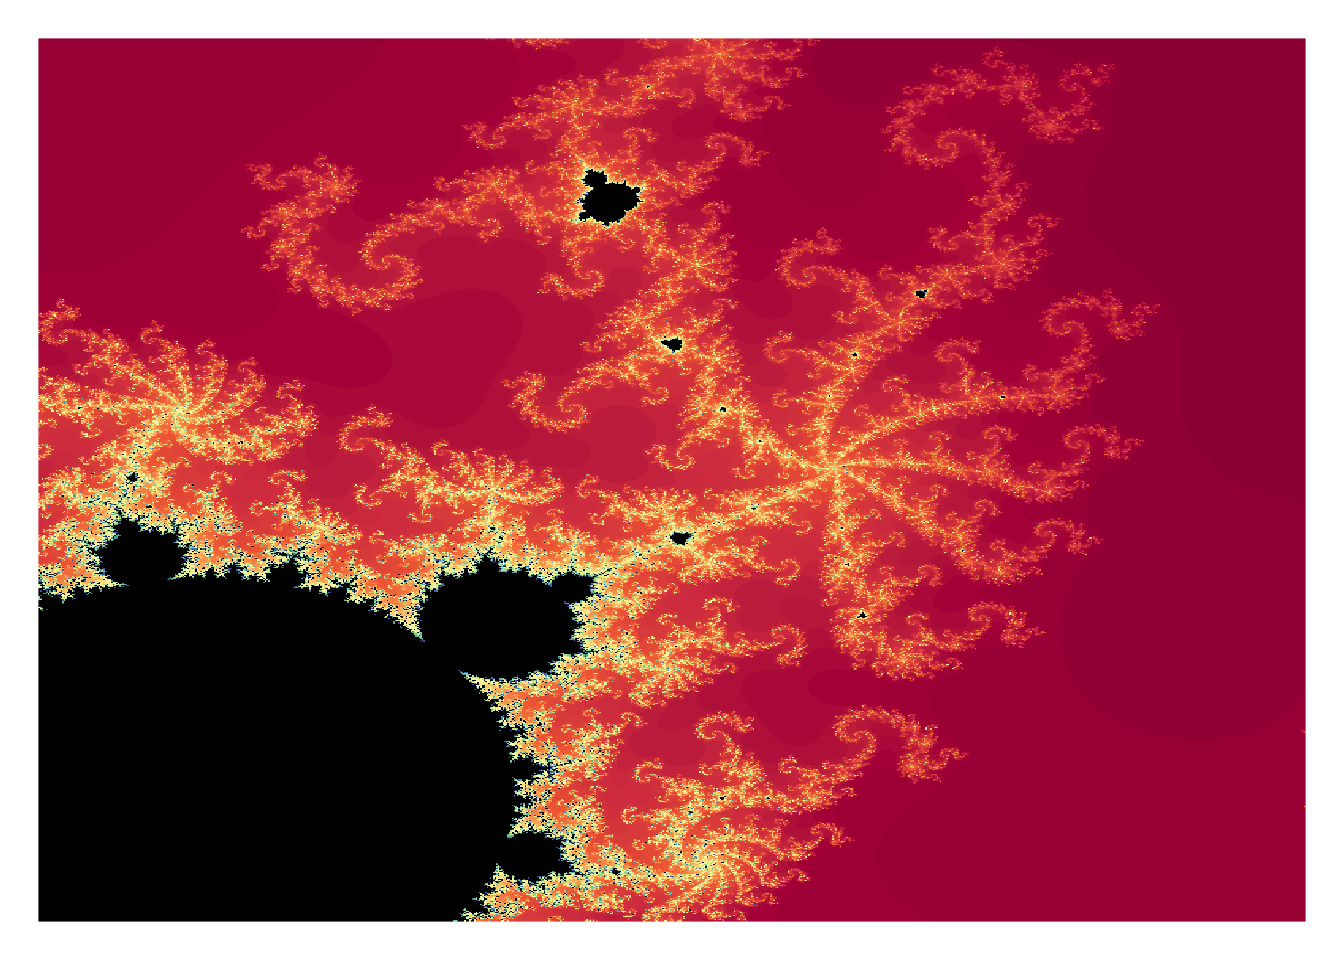
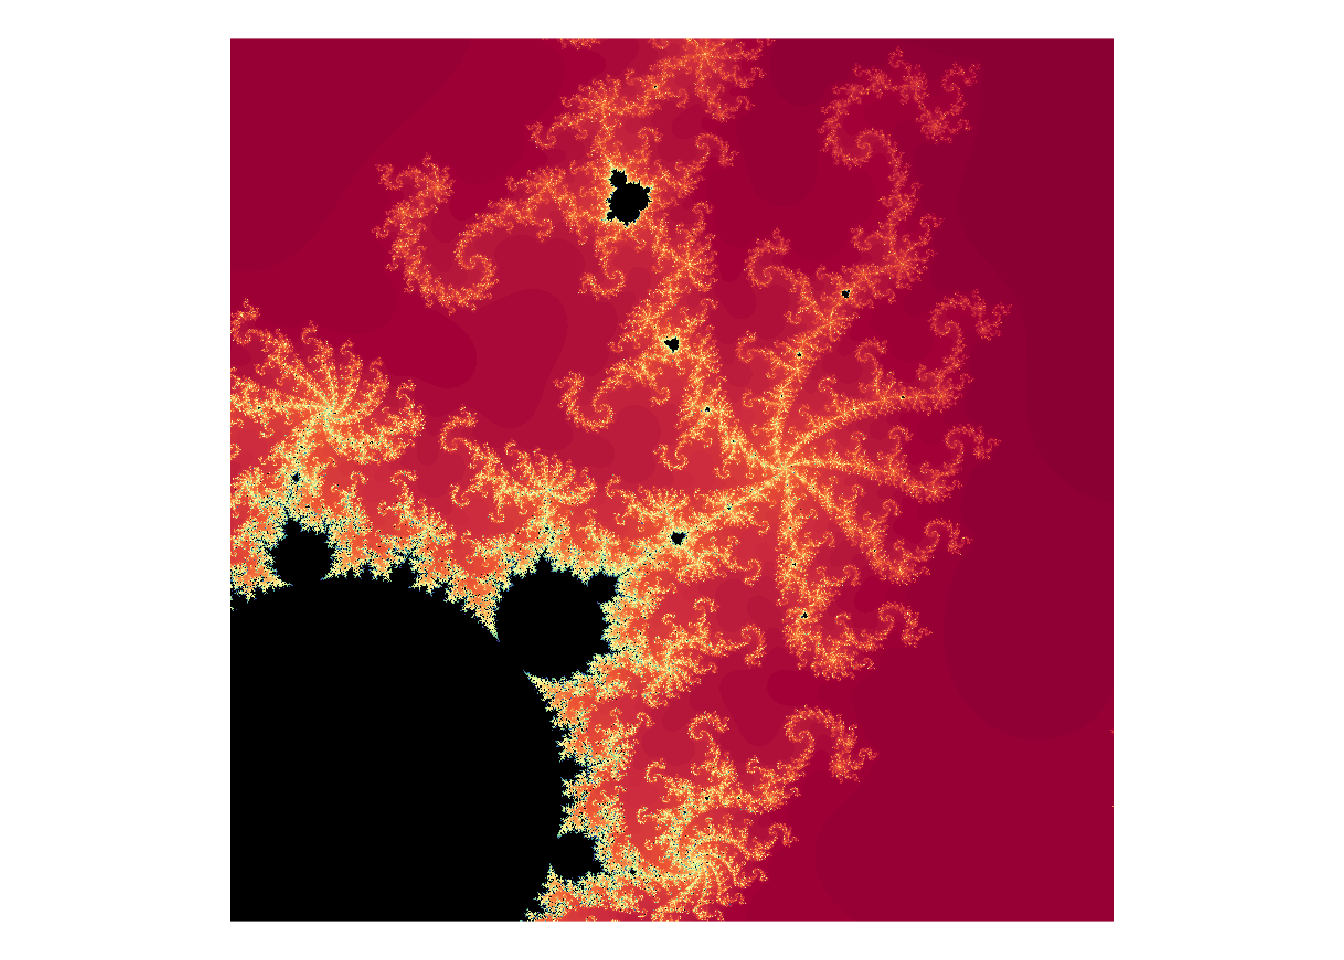
asp equal now baked in

diff --git a/docs/reference/plot.mandelbrot.html b/docs/reference/plot.mandelbrot.html
@@ -78,7 +78,7 @@
 
     <pre class="usage"><span class='co'># S3 method for mandelbrot</span>
 <span class='fu'>plot</span>(<span class='no'>x</span>, <span class='kw'>col</span> <span class='kw'>=</span> <span class='fu'><a href='mandelbrot_palette.html'>mandelbrot_palette</a></span>(<span class='fu'>c</span>(<span class='st'>"white"</span>,
-  <span class='fu'>grey.colors</span>(<span class='fl'>50</span>))), <span class='kw'>transform</span> <span class='kw'>=</span> <span class='fu'>c</span>(<span class='st'>"none"</span>, <span class='st'>"inverse"</span>, <span class='st'>"log"</span>), <span class='no'>...</span>)</pre>
+  <span class='fu'>grey.colors</span>(<span class='fl'>50</span>))), <span class='kw'>transform</span> <span class='kw'>=</span> <span class='fu'>c</span>(<span class='st'>"none"</span>, <span class='st'>"inverse"</span>, <span class='st'>"log"</span>), <span class='kw'>asp</span> <span class='kw'>=</span> <span class='fl'>1</span>, <span class='no'>...</span>)</pre>
     
     <h2 class="hasAnchor" id="arguments"><a class="anchor" href="#arguments"></a> Arguments</h2>
     <table class="ref-arguments">
@@ -96,6 +96,11 @@
       <th>transform</th>
       <td><p>the name of a transformation to apply to the number
 of iterations matrix</p></td>
+    </tr>
+    <tr>
+      <th>asp</th>
+      <td><p>the <code>asp</code> parameter to <code><a href='http://www.rdocumentation.org/packages/graphics/topics/image'>image</a></code>
+which contorls aspect ratio</p></td>
     </tr>
     <tr>
       <th>...</th>

diff --git a/docs/index.html b/docs/index.html
@@ -64,7 +64,7 @@
 <div class="sourceCode"><pre class="sourceCode r"><code class="sourceCode r"><span class="kw">library</span>(mandelbrot)
 
 mb &lt;-<span class="st"> </span><span class="kw"><a href="reference/mandelbrot.html">mandelbrot</a></span>()
-<span class="kw">plot</span>(mb, <span class="dt">asp =</span> <span class="dv">1</span>)</code></pre></div>
+<span class="kw">plot</span>(mb)</code></pre></div>
 <p><img src="figs/README-b_n_w-1.png" width="672"></p>
 <p>Pretty colours:</p>
 <div class="sourceCode"><pre class="sourceCode r"><code class="sourceCode r">mb &lt;-<span class="st"> </span><span class="kw"><a href="reference/mandelbrot.html">mandelbrot</a></span>(<span class="dt">xlim =</span> <span class="kw">c</span>(-<span class="fl">0.8438146</span>, -<span class="fl">0.8226294</span>),

diff --git a/README.md b/README.md
@@ -24,7 +24,7 @@ Examples
 library(mandelbrot)
 
 mb <- mandelbrot()
-plot(mb, asp = 1)
+plot(mb)
 ```
 
 ![](figs/README-b_n_w-1.png)
@@ -75,7 +75,7 @@ cols <- c(
 df <- as.data.frame(mb)
 ggplot(df, aes(x = x, y = y, fill = value)) +
   geom_raster(interpolate = TRUE) + theme_void() +
-  scale_fill_gradientn(colours = cols, guide = "none")
+  scale_fill_gradientn(colours = cols, guide = "none") 
 ```
 
 ![](figs/README-ggplot-1.png)
